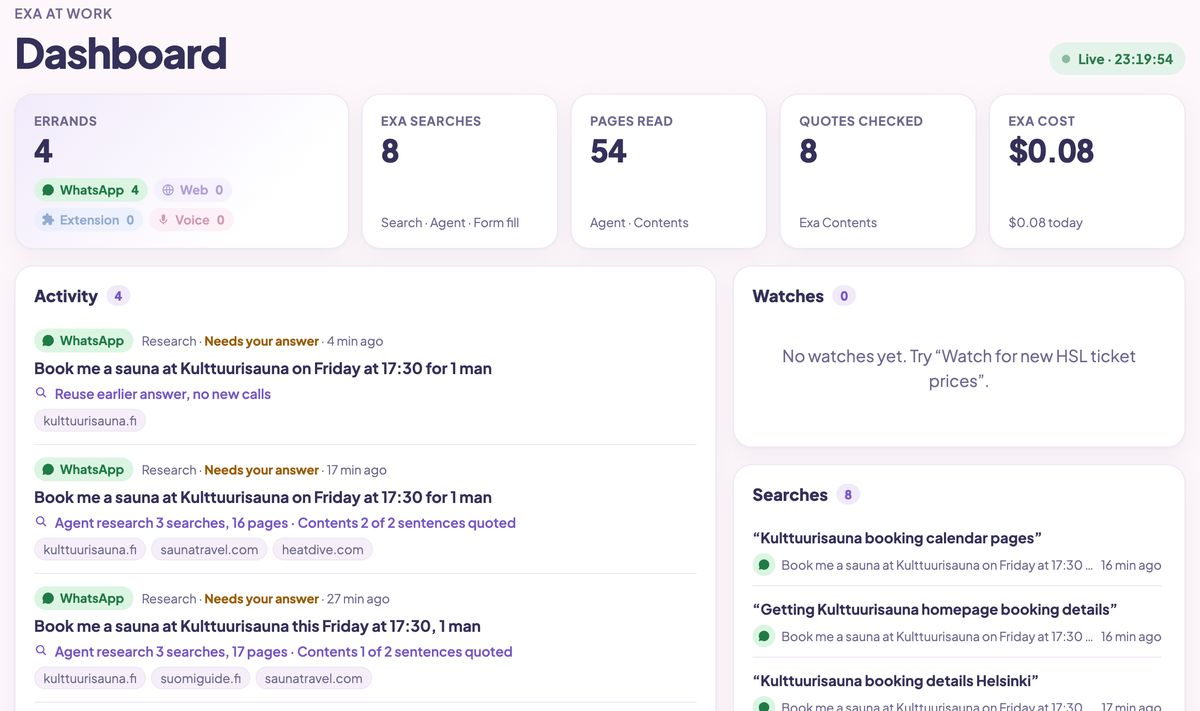
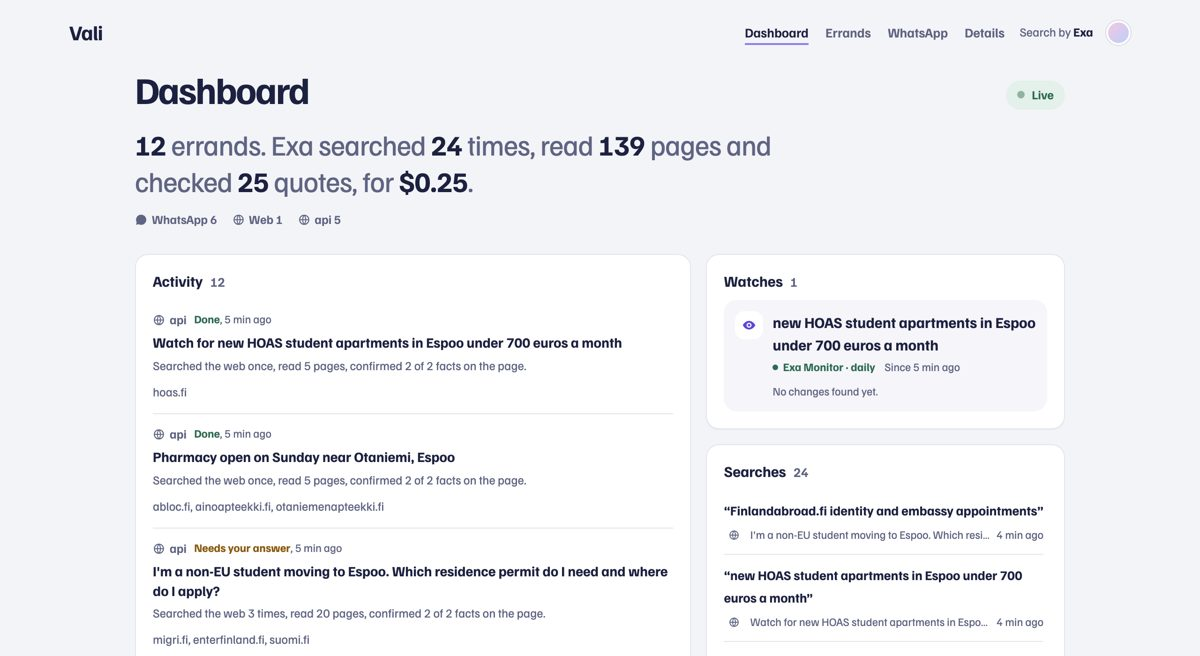
Web: sign-in page, demo link asks first, options on finished errands, new landing pictures

diff --git a/web/app.js b/web/app.js
@@ -1,6 +1,7 @@
 // The page controller: routes (#/ home, #/t/<id> one errand, #/dashboard, #/dashboard/<id> one errand as a chat),
 // the ask box, and polling the open errand.
-import { api } from './api.js';
+import { api, session } from './api.js';
+import { renderLogin } from './login.js';
 import { $, h } from './dom.js';
 import { TERMINAL, isActive, moodOf, primaryAction } from './model.js';
 import { renderWorking, tickClock } from './working.js';
@@ -26,7 +27,8 @@ if (mascot) mountPalettePicker($('palette'), mascot);
 $('exa-uses').replaceChildren(...EXA_USES.map(([label, detail]) => h('div', {}, h('dt', {}, label), h('dd', {}, detail))));
 
 function showView(name) {
-  for (const id of ['home', 'working', 'answer', 'hub', 'dashboard']) $(id).hidden = id !== name;
+  for (const id of ['home', 'working', 'answer', 'hub', 'dashboard', 'login']) $(id).hidden = id !== name;
+  document.body.classList.toggle('signed-in', session.signedIn());
   for (const link of document.querySelectorAll('.top [data-view]')) {
     if (link.dataset.view === name) link.setAttribute('aria-current', 'page');
     else link.removeAttribute('aria-current');
@@ -46,6 +48,7 @@ function notice(text, quiet = false) {
 // ---------- asking ----------
 // The one way an errand starts on this page: the home ask box, follow-ups and the corner bubble all call it.
 function startErrand(errand, previousTaskId) {
+  session.markSignedIn();
   return api.createTask(errand, previousTaskId, Object.keys(loadProfile()));
 }
 
@@ -187,6 +190,7 @@ $('to-trust')?.addEventListener('click', () => openTrust(followed?.task));
 $('trust').addEventListener('click', (event) => { if (event.target === $('trust')) $('trust').close(); });
 $('to-details').addEventListener('click', () => openDetails());
 $('to-whatsapp').addEventListener('click', () => openWhatsapp());
+$('to-logout').addEventListener('click', () => { session.signOut(); location.hash = '#/'; showView('home'); });
 $('whatsapp').addEventListener('click', (event) => { if (event.target === $('whatsapp')) $('whatsapp').close(); });
 $('details').addEventListener('click', (event) => { if (event.target === $('details')) $('details').close(); });
 // Saved or deleted details change the open answer's hint and approval values, so it redraws.
@@ -194,6 +198,21 @@ $('details').addEventListener('close', () => { if (followed?.task) { followed.ke
 
 // ---------- routes ----------
 function route() {
+  // Errands and the dashboard need a signed-in account; the landing page and sign-in do not.
+  const gated = /^#\/(dashboard|t\/)/.test(location.hash);
+  if (gated && !session.signedIn()) {
+    closeBoard();
+    unfollow();
+    renderLogin(location.hash);
+    return showView('login');
+  }
+  if (location.hash === '#/login') {
+    closeBoard();
+    unfollow();
+    if (session.signedIn() && !session.hasDemo()) { location.hash = '#/dashboard'; return; }
+    renderLogin('#/dashboard');
+    return showView('login');
+  }
   if ($('details').open) $('details').close();
   if ($('whatsapp').open) $('whatsapp').close();
   notice(leaving);

diff --git a/web/state.js b/web/state.js
@@ -1,6 +1,6 @@
 // The state block on top of an errand: the path it takes, where it stands now, and the one thing that moves it on.
 import { h } from './dom.js';
-import { errandStage, primaryAction } from './model.js';
+import { domainOf, errandStage, linkActions, primaryAction, safeUrl } from './model.js';
 
 export function renderState(task, handlers) {
   const stage = errandStage(task);
@@ -19,7 +19,9 @@ function next(task, stage, { onExecute, onStop, onApprove, onReply, onFollowUp, 
   const action = primaryAction(task);
   const fill = (label, cls = 'btn') => action
     ? h('button', { type: 'button', class: cls, onclick: (e) => onExecute(action.index, e.currentTarget) }, label) : null;
-  const site = action ? h('a', { class: 'btn quiet', href: action.url, target: '_blank', rel: 'noopener noreferrer' }, `Open ${action.domain}`) : null;
+  // The page where Vali stopped, so date, time and choices are already picked when the site keeps them in the address.
+  const where = safeUrl(task.execution?.current_url) || action?.url;
+  const site = where ? h('a', { class: 'btn quiet', href: where, target: '_blank', rel: 'noopener noreferrer' }, `Open ${domainOf(where)}`) : null;
   if (kind === 'fill') return h('div', { class: 'actions' }, fill('Fill it for me'), site);
   if (kind === 'stop') return h('div', { class: 'actions' }, h('button', { type: 'button', class: 'btn quiet', onclick: (e) => onStop(e.currentTarget) }, 'Stop'));
   if (kind === 'approve') {
@@ -33,6 +35,15 @@ function next(task, stage, { onExecute, onStop, onApprove, onReply, onFollowUp, 
     if (stage.next.question) return [answerBox('Your answer', (text, button) => onResume(text, button), 'Continue'), h('div', { class: 'actions' }, site)];
     return h('div', { class: 'actions' },
       h('button', { type: 'button', class: 'btn', onclick: (e) => onResume('', e.currentTarget) }, 'Continue'), site);
+  }
+  if (kind === 'done') {
+    const links = linkActions(task);
+    return [
+      links.length ? h('ul', { class: 'options' }, links.map((link) => h('li', {},
+        h('a', { class: 'option', href: link.url, target: '_blank', rel: 'noopener noreferrer' },
+          h('span', { class: 'option-label' }, link.label), h('span', { class: 'option-site' }, link.domain))))) : null,
+      answerBox('Ask a follow-up, e.g. “book the cheapest one”', (text) => onFollowUp(text), 'Ask'),
+    ];
   }
   if (kind === 'retry') return h('div', { class: 'actions' }, h('button', { type: 'button', class: 'btn', onclick: () => onFollowUp(task.task) }, 'Try again'));
   return null;

diff --git a/web/style.css b/web/style.css
@@ -631,3 +631,28 @@ a.watch-criteria:hover { text-decoration: underline; text-decoration-color: var(
 /* one frame for every page: the same width and side gutters */
 main { max-width: 1040px; }
 .answer-main, .thread-view { max-width: 760px; margin-left: auto; margin-right: auto; }
+
+/* signed in or not: the header shows the app links or one Log in button */
+body:not(.signed-in) .top .signed { display: none; }
+body.signed-in .top .guest { display: none; }
+.login-btn { padding: 8px 16px; font-size: 14px; }
+.login-view { display: grid; place-items: start center; padding-top: 24px; }
+.login { width: 100%; max-width: 440px; padding: 28px 28px 24px; text-align: center; }
+.login-slot { width: 120px; height: 120px; margin: 0 auto 4px; }
+.login-title { margin: 0; font-size: 28px; letter-spacing: -.02em; }
+.login-sub { margin: 6px 0 22px; }
+.login-choices { display: grid; gap: 10px; text-align: left; }
+.login-choice { display: grid; gap: 2px; width: 100%; padding: 14px 16px; border: 1px solid var(--line-2); border-radius: 12px; background: var(--card); cursor: pointer; }
+.login-choice:hover { border-color: var(--line-3); background: var(--fill-2); }
+.login-choice.primary { background: var(--primary); border-color: var(--primary); color: var(--on-primary); }
+.login-choice.primary:hover { background: var(--primary-hover); }
+.login-choice-title { font-weight: 700; font-size: 16px; }
+.login-choice-detail { font-size: 14px; color: var(--muted); }
+.login-choice.primary .login-choice-detail { color: inherit; opacity: .8; }
+
+/* a finished errand: the prepared links as options, then a follow-up box */
+.options { list-style: none; margin: 14px 0 0; padding: 0; display: grid; gap: 8px; }
+.option { display: flex; justify-content: space-between; align-items: center; gap: 12px; padding: 12px 14px; border: 1px solid var(--line-2); border-radius: 12px; text-decoration: none; background: var(--bg); }
+.option:hover { border-color: var(--accent); }
+.option-label { font-weight: 600; }
+.option-site { flex: none; font-size: 13px; color: var(--muted); }

diff --git a/web/login.js b/web/login.js
@@ -1,0 +1,33 @@
+// The sign-in page (#/login): open the demo account from a shared link, continue on this browser,
+// link WhatsApp with a one-time code, or start a new account. Nothing here asks for a password or an email.
+import { api, session } from './api.js';
+import { h, show } from './dom.js';
+import { openWhatsapp } from './whatsapp.js';
+
+export function renderLogin(next = '#/dashboard') {
+  const go = () => { session.markSignedIn(); location.hash = next; };
+  const choice = (title, detail, onclick, primary = false) =>
+    h('button', { type: 'button', class: `login-choice${primary ? ' primary' : ''}`, onclick },
+      h('span', { class: 'login-choice-title' }, title), h('span', { class: 'login-choice-detail' }, detail));
+  const options = [];
+  if (session.hasDemo()) {
+    options.push(choice('Open the demo account', 'Ana just landed for Junction. See everything Vali did for her.', () => { session.useDemo(); go(); }, true));
+  }
+  if (session.hasAccount() && !session.hasDemo()) {
+    options.push(choice('Continue', 'Your errands on this browser.', go, true));
+  }
+  options.push(choice('Continue with WhatsApp', 'Get a code, send it to Vali, and your chats show up here.', async () => {
+    await session.ensureAccount();
+    session.markSignedIn();
+    const sheet = document.getElementById('whatsapp');
+    sheet.addEventListener('close', () => { location.hash = next; }, { once: true });
+    openWhatsapp();
+  }));
+  options.push(choice('New account', 'Start fresh. No email, no password.', async () => { session.reset(); await session.ensureAccount(); go(); }));
+  show('login',
+    h('div', { class: 'login card' },
+      h('div', { class: 'hero-slot login-slot', 'data-slot': 'login' }),
+      h('h1', { class: 'login-title' }, 'Sign in to Vali'),
+      h('p', { class: 'muted login-sub' }, 'Your valet for life in Finland.'),
+      h('div', { class: 'login-choices' }, options)));
+}

diff --git a/web/model.js b/web/model.js
@@ -300,7 +300,7 @@ export function errandStage(task) {
       return out(0, 'you', `Vali needs one thing from you: ${missingInfo(task)[0]}`, { kind: 'answer', question: missingInfo(task).join(' ') });
     }
     if (action) return out(0, 'ready', `Vali found it. Next: fill the form on ${action.domain}.`, { kind: 'fill' });
-    return out(done, 'done', 'Answered. Nothing left to do.', null);
+    return out(done, 'done', 'Done. Pick an option or ask Vali something else.', { kind: 'done' });
   }
   if (status === 'starting') return out(1, 'working', `Opening ${site}.`, { kind: 'stop' });
   if (status === 'running') {
@@ -309,7 +309,7 @@ export function errandStage(task) {
   }
   if (status === 'awaiting_approval') return out(2, 'you', `Everything is filled on ${site}. Nothing is sent until you approve.`, { kind: 'approve' });
   if (status === 'submitting') return out(2, 'working', `Sending it on ${site}.`, null);
-  if (status === 'done') return out(done, 'done', run.result || 'Done.', null);
+  if (status === 'done' || status === 'completed') return out(done, 'done', run.result || 'Done.', { kind: 'done' });
   const reached = run.approval ? 2 : 1;
   if (status === 'stopped') {
     const where = asked ? `while Vali was asking “${asked.replace(/[?.]\s*$/, '')}?”` : last ? `after “${last}”.` : `on ${site}.`;
@@ -352,4 +352,10 @@ export function webWork(task) {
   if (!parts.length) return '';
   const line = parts.join(', ');
   return line[0].toUpperCase() + line.slice(1) + '.';
+}
+
+// The links Vali prepared for this errand, for the buttons under a finished errand: [{label, url, domain}].
+export function linkActions(task, n = 3) {
+  return list(structured(task).actions).map((a) => ({ label: String(a?.label || '').trim(), url: safeUrl(a?.url) }))
+    .filter((a) => a.url && a.label).slice(0, n).map((a) => ({ ...a, domain: domainOf(a.url) }));
 }

diff --git a/web/api.js b/web/api.js
@@ -3,16 +3,34 @@
 const base = (document.querySelector('meta[name="vali-api"]')?.content || '').replace(/\/+$/, '');
 const TOKEN_KEY = 'vali.token:' + (base || location.origin);
 let token = load(TOKEN_KEY);
-// A shared demo link (#demo=<token>) opens that account, already full; the token leaves the address bar at once.
+const DEMO_KEY = 'vali.demo:' + (base || location.origin);
+const SIGNED_KEY = 'vali.signed:' + (base || location.origin);
+// A shared demo link (#demo=<token>) offers that account, already full, on the sign-in page;
+// the token leaves the address bar at once.
 const demo = String(globalThis.location?.hash || '').match(/(?:^#|&)demo=([A-Za-z0-9_-]{20,})/);
 if (demo) {
-  token = demo[1];
-  save(TOKEN_KEY, token);
-  globalThis.history?.replaceState(null, '', location.pathname + location.search + '#/dashboard');
+  save(DEMO_KEY, demo[1]);
+  globalThis.history?.replaceState(null, '', location.pathname + location.search + '#/login');
 }
+
+// Who is signed in on this browser. Signing in is a choice on #/login; the token is the account.
+export const session = {
+  signedIn: () => load(SIGNED_KEY) === '1' && Boolean(token),
+  hasAccount: () => Boolean(token),
+  hasDemo: () => Boolean(load(DEMO_KEY)) && load(DEMO_KEY) !== token,
+  useDemo() { token = load(DEMO_KEY); save(TOKEN_KEY, token); },
+  markSignedIn: () => save(SIGNED_KEY, '1'),
+  async ensureAccount() { if (!token) await signIn(); },
+  reset() { token = null; remove(TOKEN_KEY); },
+  signOut() { remove(SIGNED_KEY); },
+};
 
 function load(key) {
   try { return localStorage.getItem(key); } catch { return null; }
+}
+
+function remove(key) {
+  try { localStorage.removeItem(key); } catch { /* nothing stored */ }
 }
 
 function save(key, value) {

diff --git a/web/index.html b/web/index.html
@@ -15,11 +15,13 @@
 <header class="top">
   <a class="brand" href="#/">Vali</a>
   <div class="top-right">
-    <a href="#/dashboard" class="link-btn" data-view="dashboard">Dashboard</a>
-    <button type="button" id="to-errands" class="link-btn">Errands</button>
-    <button type="button" id="to-whatsapp" class="link-btn">WhatsApp</button>
-    <button type="button" id="to-details" class="link-btn">Details</button>
+    <a href="#/dashboard" class="link-btn signed" data-view="dashboard">Dashboard</a>
+    <button type="button" id="to-errands" class="link-btn signed">Errands</button>
+    <button type="button" id="to-whatsapp" class="link-btn signed">WhatsApp</button>
+    <button type="button" id="to-details" class="link-btn signed">Details</button>
+    <button type="button" id="to-logout" class="link-btn signed">Log out</button>
     <span class="by-exa">Search by <b>Exa</b></span>
+    <a href="#/login" id="to-login" class="btn login-btn guest">Log in</a>
     <div class="palette-picker">
       <button type="button" id="palette" class="palette-btn" aria-label="Vali's colours" aria-haspopup="menu"></button>
     </div>
@@ -140,7 +142,8 @@
   <section id="working" class="view working" hidden></section>
   <section id="answer" class="view answer" hidden></section>
   <section id="hub" class="view hub" hidden></section>
-  <section id="dashboard" class="view dashboard" hidden aria-label="Dashboard"></section>
+  <section id="login" class="view login-view" hidden aria-label="Sign in"></section>
+<section id="dashboard" class="view dashboard" hidden aria-label="Dashboard"></section>
 </main>
 
 <dialog id="trust" class="sheet" aria-labelledby="trust-title">

diff --git a/web/board.js b/web/board.js
@@ -153,7 +153,10 @@ function threadHandlers(task) {
       if (![404, 405].includes(error.status) || !action) throw error;
       return api.execute(task.id, action.index, loadProfile());
     }), button),
-    onFollowUp: () => { location.hash = `#/t/${encodeURIComponent(task.id)}`; },
+    onFollowUp: (text) => act(async () => {
+      const next = await api.createTask(text, task.id);
+      location.hash = `#/t/${encodeURIComponent(next.id)}`;
+    }),
     onDetails: () => document.getElementById('to-details')?.click(),
   };
 }
